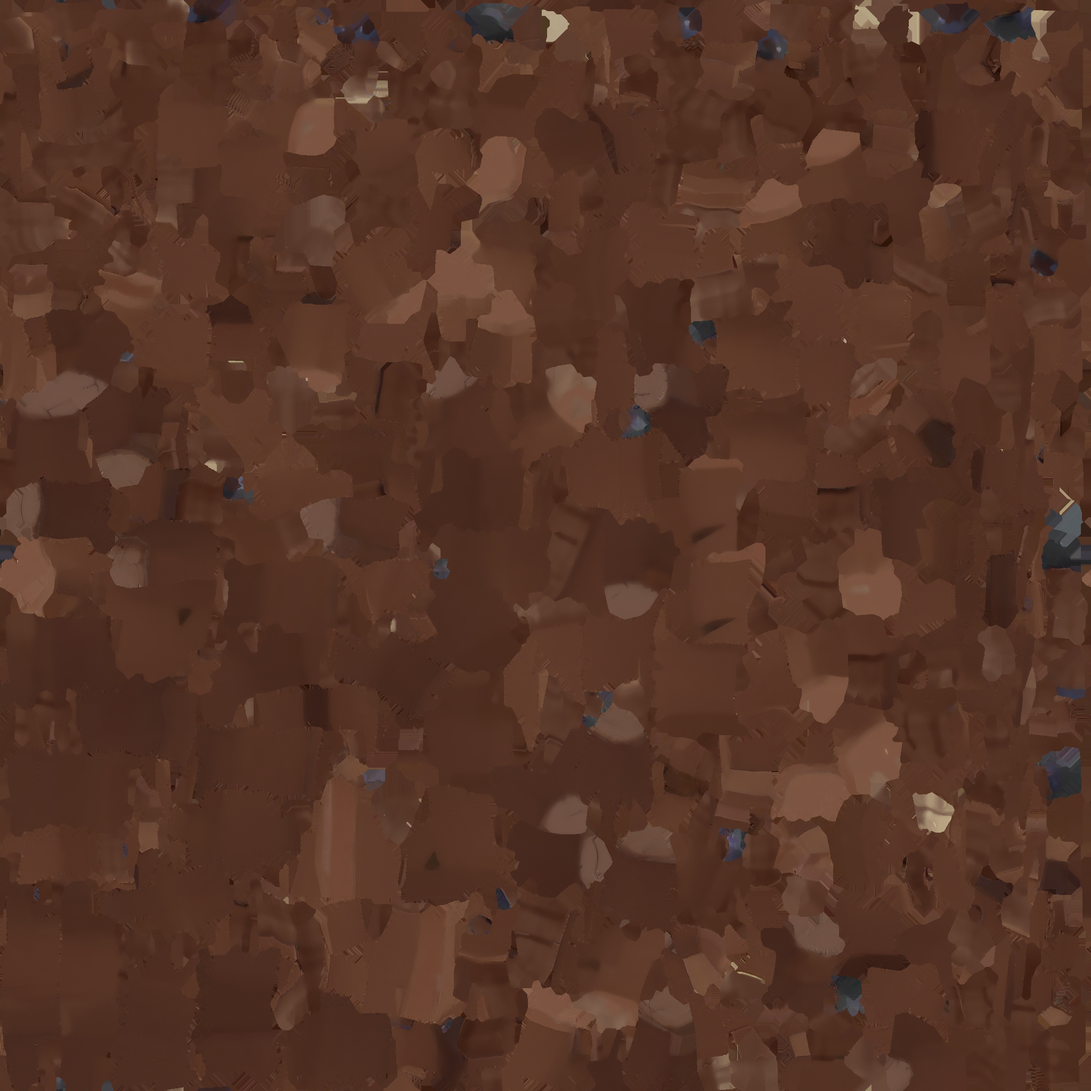
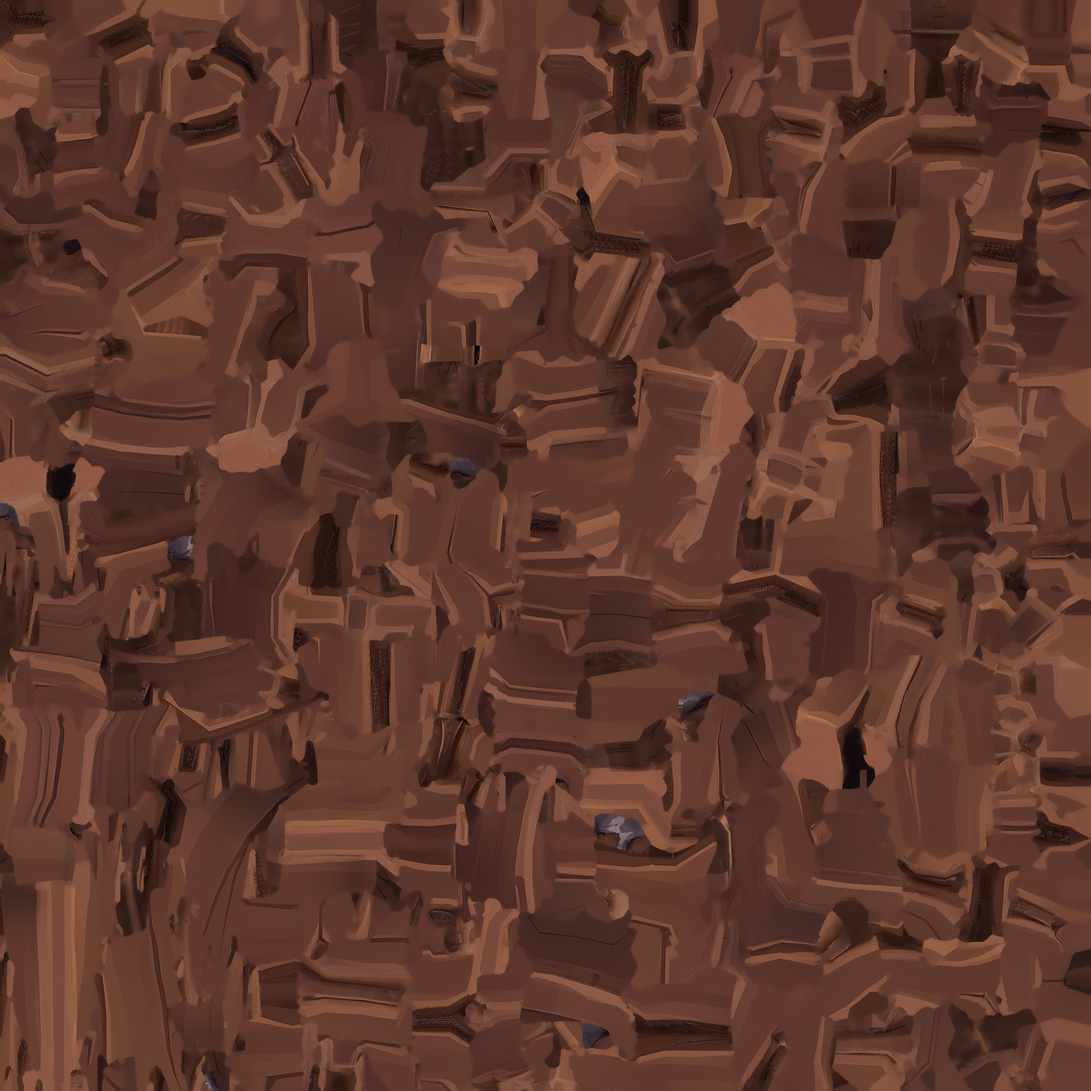
El cartel usa su propia textura, no la del modelo viejo
El modelo nuevo salio con el ATLAS DEL ANTERIOR mapeado sobre sus UV: la
madera se veia manchada y con borrones azules, y no daba ningun error.
La causa es que estos modelos se importan con `embedded_image_handling=1`
(extraer) y Godot escribe `<modelo>_0.jpg` SOLO SI NO EXISTE, asi que un
modelo nuevo se queda con la textura del viejo mientras ese archivo siga
ahi. Se caza comparando el md5 de la imagen embebida en el `.glb` con el
del `.jpg` del disco; queda apuntado en la guia.

Su textura va a 512 y no a 256: el cartel es de los pocos objetos que el
jugador mira para leer un simbolo, y a 256 el canto de las tablas se
emborronaba. Son 0,17 MB de video.

diff --git a/CLAUDE.md b/CLAUDE.md
@@ -31,6 +31,14 @@ Godot está en `C:/Users/KOPURISTA/Desktop/GODOT/Godot_v4.7.1-stable_win64.exe/`
   arregla solo, porque el `.glb` ya está importado y Godot no lo rehace: hay
   que **borrar `.godot/imported/*.glb-*.scn` y reimportar**. Pasó de verdad y
   reventaba al servir un plato a la cinta.
+- **Y AL SUSTITUIR UN `.glb`, BORRAR TAMBIÉN SU TEXTURA EXTRAÍDA.** Estos
+  modelos se importan con `gltf/embedded_image_handling=1` (extraer), y Godot
+  escribe `<modelo>_0.jpg` **solo si no existe**: con el archivo ya ahí, un
+  modelo NUEVO se queda con la textura del VIEJO. Pasó con el cartel de paso —
+  el modelo nuevo salió con el atlas del anterior mapeado sobre sus UV, y la
+  madera se veía manchada y con borrones azules sin que nada diera error. Se
+  comprueba comparando el md5 de la imagen EMBEBIDA en el `.glb` con el del
+  `.jpg` del disco.
 - **`--headless --import` NO REHACE UNA IMPORTACIÓN CUYO ARCHIVO NO HA
   CAMBIADO**, aunque cambien sus PARÁMETROS (`compress/mode`, `size_limit`, el
   presupuesto del hook de decimado…): compara el archivo de ORIGEN, no el
